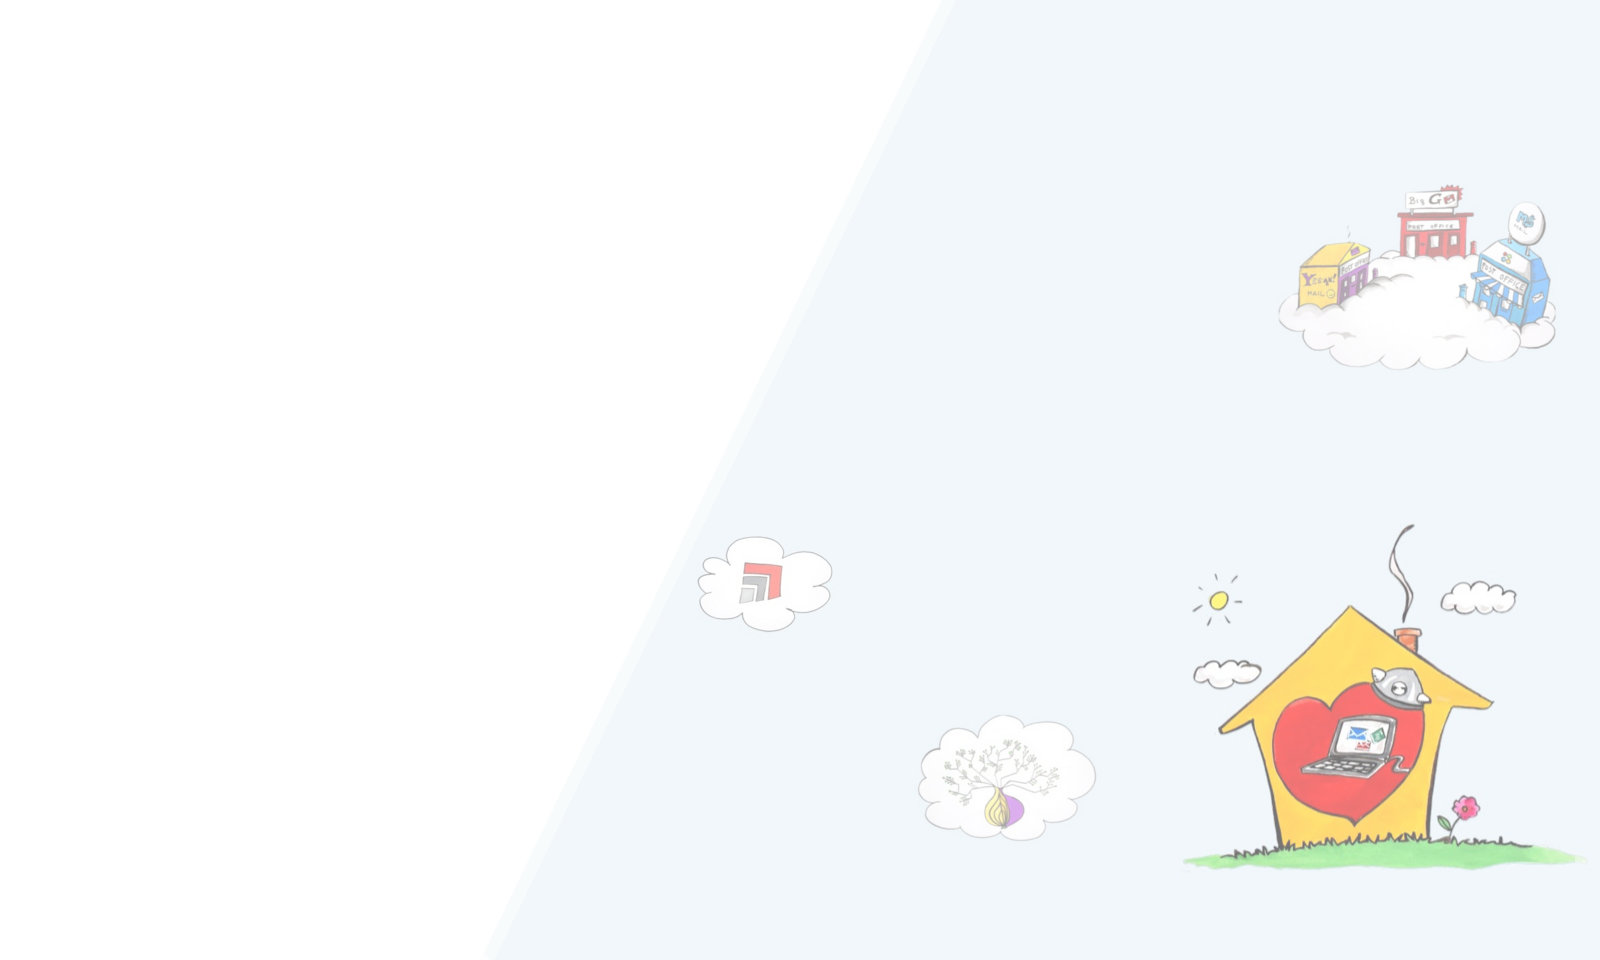
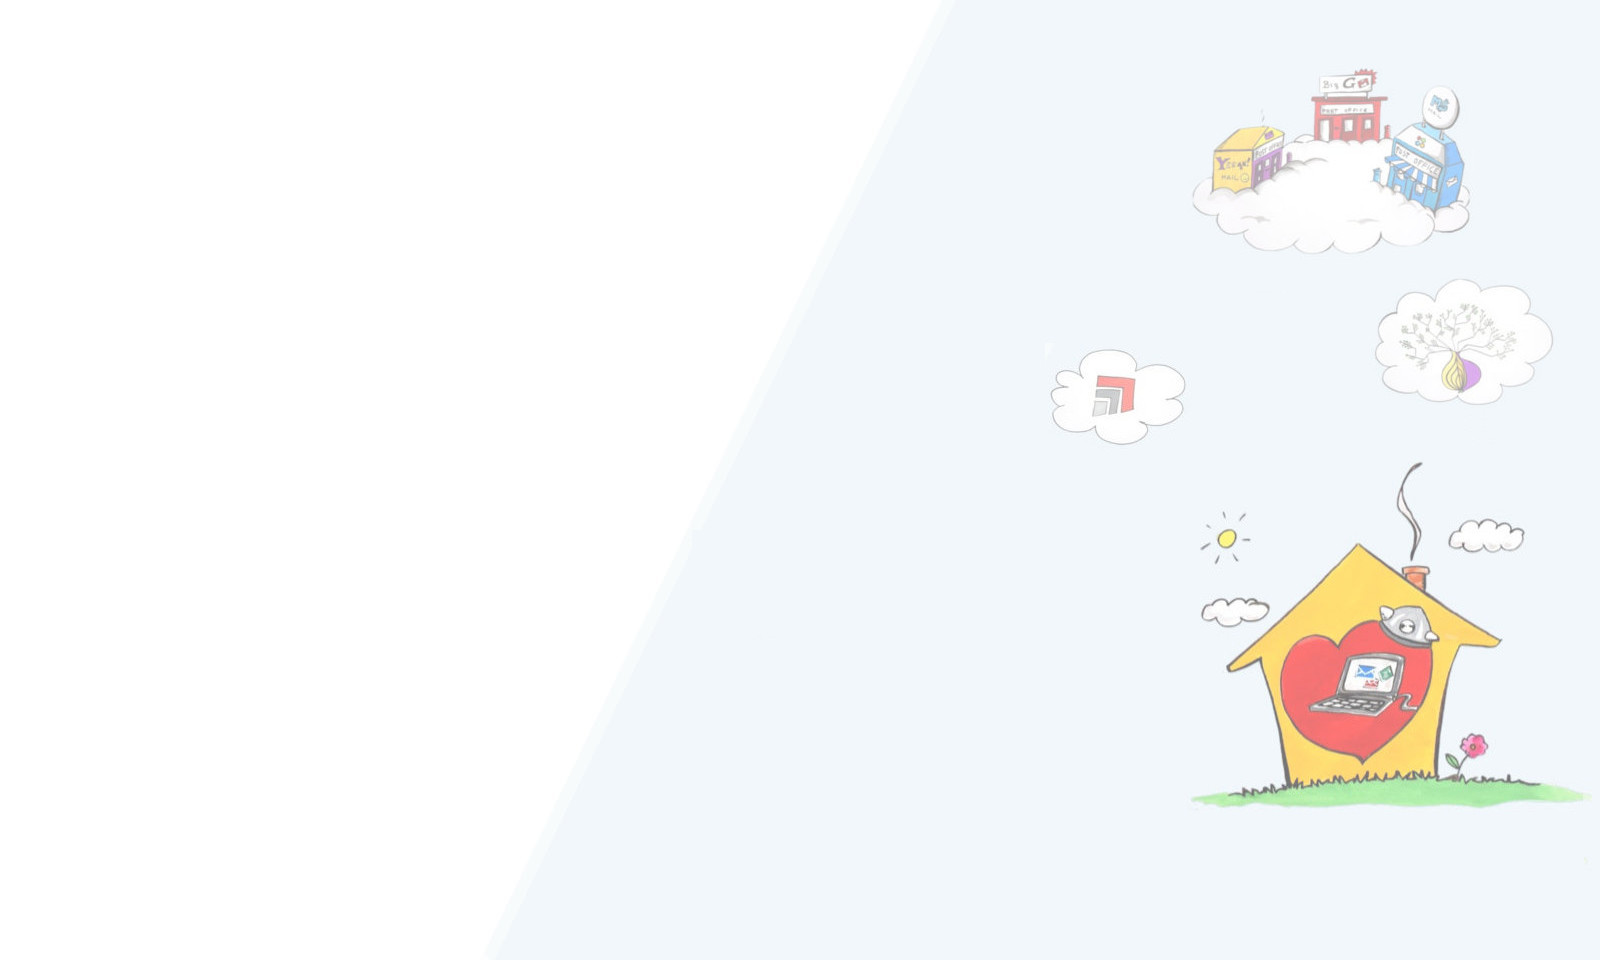
GUI: Fix a few issues identified in the usability tests
- Remove the remote-access status display
   - Make the action buttons in the UI more prominent
   - Make the action button text change to match app state
   - mailpile-gui.py: Avoid spaces and quotes in launch command
   - mailpile-gui.py: Add --compile flag for use in installer

diff --git a/mailpile/plugins/gui.py b/mailpile/plugins/gui.py
@@ -70,7 +70,7 @@ class GuiOMaticConnection(threading.Thread):
             self._do('set_item', id='browse', sensitive=True)
             self._do('set_status_display',
                 id='mailpile',
-                color='#333',
+                color='#777',
                 icon='image:logo',
                 title=_('Welcome to Mailpile!'),
                 details=_('Mailpile is now running on this computer.'))
@@ -89,19 +89,21 @@ class GuiOMaticConnection(threading.Thread):
                     _('You need to choose a language, password and privacy policy.')
                     + '\n' +
                     _('To proceed, open Mailpile in your web browser.')))
+            self._do('set_item', id='open', label=_("Get Started!"))
 
     def _state_please_log_in(self, in_state):
         if in_state:
             self._do('set_status', status='attention')
             self._do('set_status_display',
                 id="logged-in",
-                color='#777',
+                color='#333',
                 icon='image:logged-out',
                 title=_('Not logged in'),
                 details=(_('Your data is stored encrypted and is'
                            ' inaccessible until you log in.')
                          + '\n' +
                          _('To proceed, open Mailpile in your web browser.')))
+            self._do('set_item', id='open', label=_("Log In"))
 
     def _state_loading_index(self, in_state):
         if in_state:
@@ -110,6 +112,7 @@ class GuiOMaticConnection(threading.Thread):
                 id='logged-in',
                 color='#444',
                 title=_('Logging you in...'))
+            self._do('set_item', id='open', sensitive=False)
 
     def _state_logged_in(self, in_state):
         if in_state:
@@ -117,14 +120,22 @@ class GuiOMaticConnection(threading.Thread):
             self._do('set_status_display',
                 id='logged-in',
                 icon='image:logged-in',
-                color='#444',
+                color='#666',
                 title=_('You are logged in'),
                 details=_('Mailpile can now process and display your e-mail.'))
+            self._do('set_item',
+                id='open',
+                sensitive=True,
+                label=_("Open E-mail"))
+            self._do('set_status_display',
+                id='mailpile',
+                color='#333')
 
     def _state_shutting_down(self, in_state):
         if in_state:
             self._do('set_status', status='shutdown')
             self._do('notify_user', message=_('Shutting down'))
+            self._do('set_item', id='open', sensitive=False)
 
     def _choose_state(self):
         from mailpile.plugins.setup_magic import Setup

diff --git a/shared-data/mailpile-gui/mailpile-gui.py b/shared-data/mailpile-gui/mailpile-gui.py
@@ -86,15 +86,21 @@ def BASIC_GUI_CONFIGURATION(state):
             "splash": {
                 "points": 16
             },
-            "notification": {
+            "buttons": {
+                "points": 16
+            },
+            "notification_title": {
+                "points": 1,
+            },
+            "notification_details": {
                 "italic": True
             }
         },
         "main_window": {
             "show": False,
             "close_quits": False,
-            "width": 550,
-            "height": 330,
+            "width": 540,
+            "height": 300,
             "background": MAILPILE_HOME_IMAGE,
             "initial_notification": '',
             "status_displays": [{
@@ -107,22 +113,18 @@ def BASIC_GUI_CONFIGURATION(state):
                 "icon": "image:logged-out",
                 "title": _("You are not logged in"),
             },{
-                "id": "remote-access",
-                "icon": "image:ra-off",
-                "title": _("Remote access is disabled"),
-                "details": _(
-                    "Enable remote access if you would like to access\n"
-                    "Mailpile from your phone or another computer.")
+                "id": "notification",
+                "title": ""
             }],
             "action_items": [{
                 "id": "open",
                 "position": "first",
-                "label": _("Open in Web Browser"),
+                "label": _("Open Webmail"),
                 "op": "show_url",
                 "args": [mailpile_home]
             },{
                 "id": "quit_button",
-                "label": _("Quit GUI"),
+                "label": _("Quit"),
                 "position": "last",
                 "op": "quit"}]},
         "indicator": {
@@ -243,7 +245,7 @@ def GenerateBootstrap(state):
                 # FIXME: This should launch a screen session using the
                 #        same concepts as multipile's mailpile-admin.
                 'screen -S mailpile -d -m mailpile'
-                ' --set="prefs.open_in_browser = false" '
+                ' --set=prefs.open_in_browser=false '
                 ' --gui=%PORT% --interact')]
 
     return '\n'.join(bootstrap)
@@ -282,7 +284,8 @@ def Main(argv):
         MakePopenUnsafe()
 
         from gui_o_matic.control import GUIPipeControl
-        GUIPipeControl(StringIO('\n'.join(script) + '\n')).bootstrap()
+        gpc = GUIPipeControl(StringIO('\n'.join(script) + '\n'))
+        gpc.bootstrap(dry_run=('--compile' in argv))
 
 
 if __name__ == "__main__":
